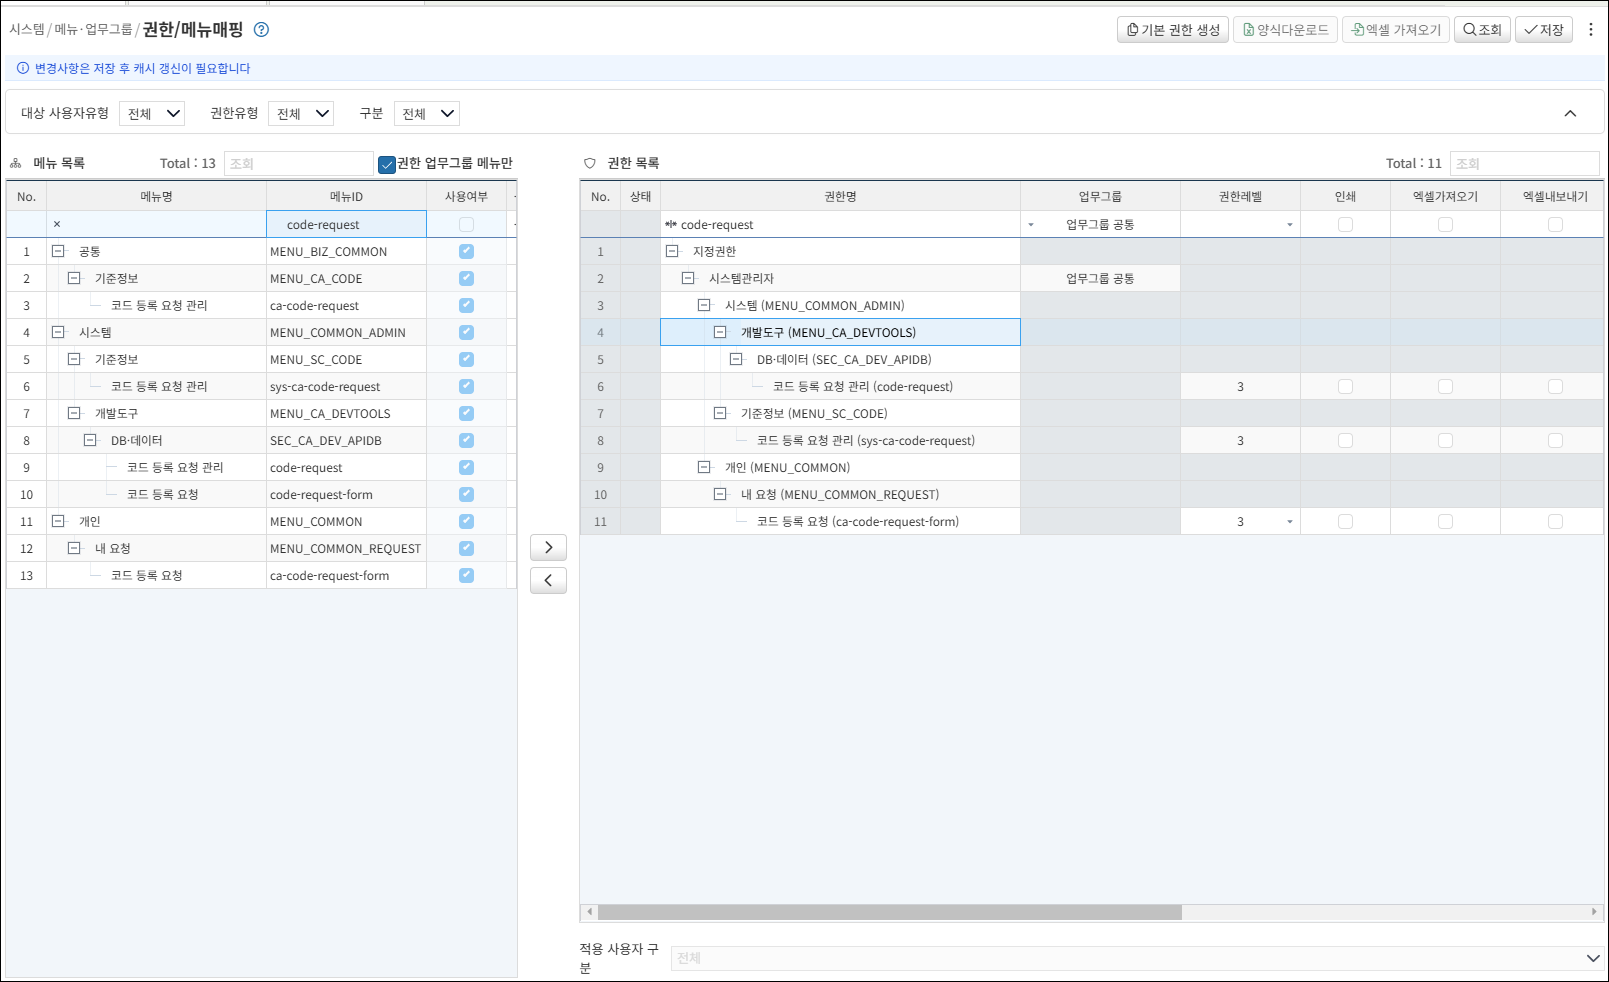
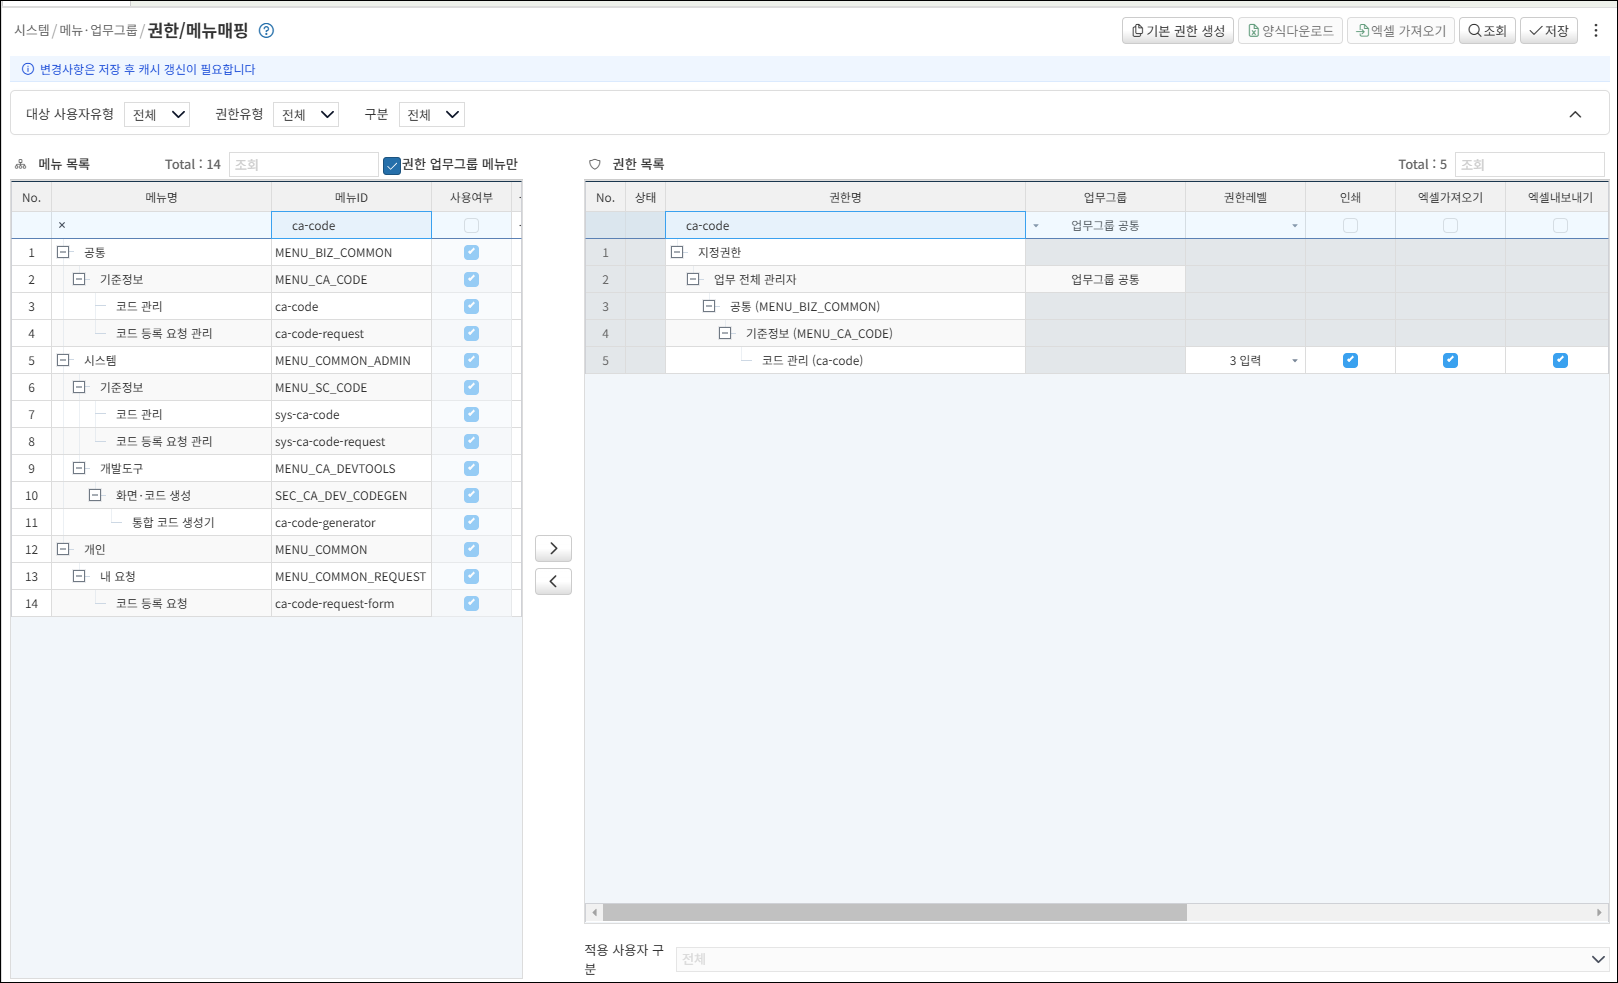
update

diff --git a/works/2026/202611/20261116/claude/03_role설정프로그램/0313_권한-메뉴매핑/0313_권한-메뉴매핑.md b/works/2026/202611/20261116/claude/03_role설정프로그램/0313_권한-메뉴매핑/0313_권한-메뉴매핑.md
@@ -4,3 +4,11 @@
 - 화면
 
   ![alt text](0313_권한-메뉴매핑-화면.png)
+  ![alt text](0313_권한-메뉴매핑-화면a.png)
+
+# TODOS
+## 프로그램 찾기 컬럼 통일
+- 메뉴목록 그리드는 메뉴ID컬럼에서 ca-code를 필터하고 권한목록 그리드는 권한명컬럼에서 ca-code를 필터한다. 가이드문구가 없어 인지 불가.
+- 권한목록 그리드 아래의 적용 사용자 구분 항목 용도 가이드 필요.
+- 메뉴목록 그리드의 메뉴명, 메뉴ID, 사용여부 컬럼을 더블클릭하면 메뉴 부여 권한 팝업이 표시되는데 이에 대한 가이드 필요.
+- 권한목록 그리드의 업무그룹컬럼의 selectbox는 권한레벨, 부서구분, 데이터권한의 selectbox와 다르게 selectbox객체인식 불가로 조치필요.
